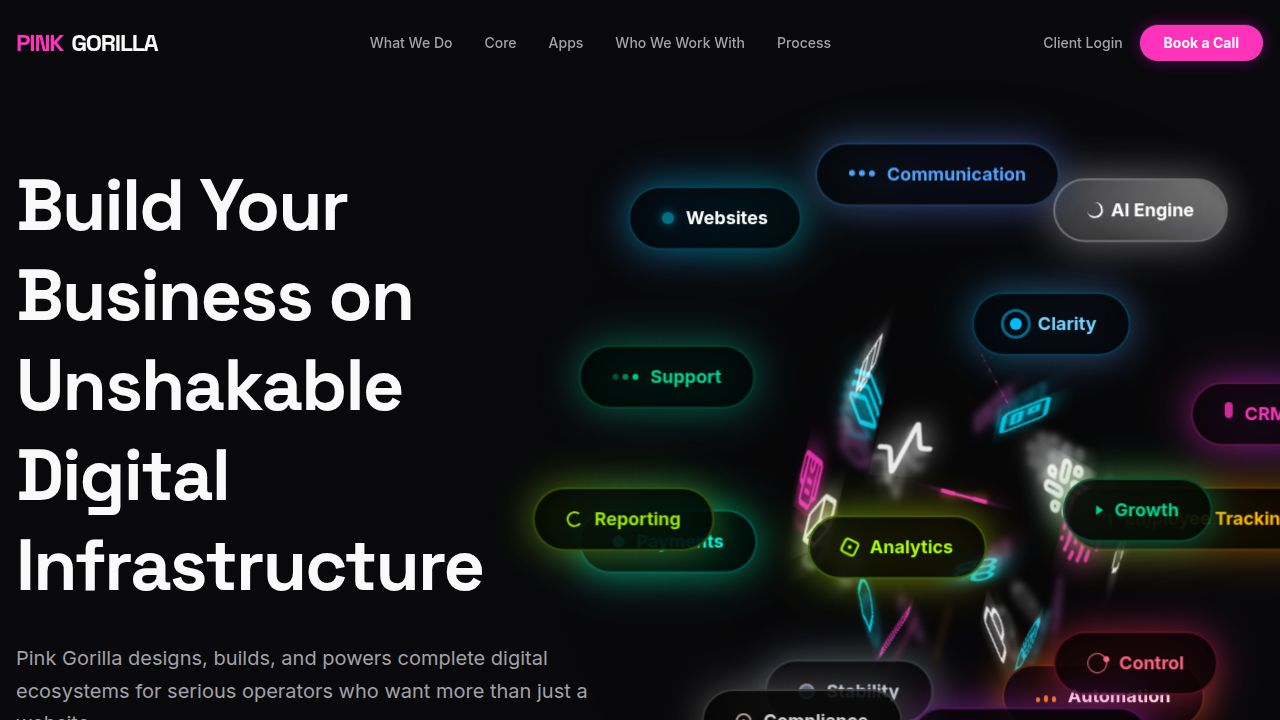
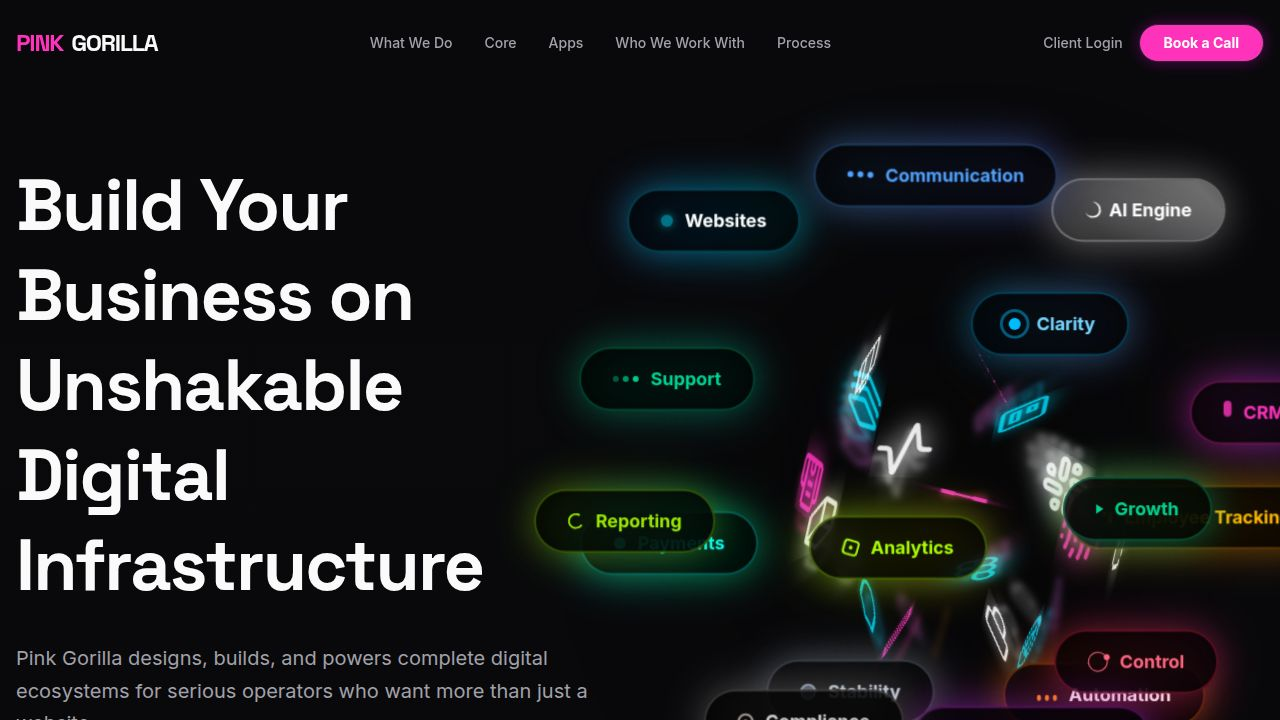
Add animated data packets traveling between nodes in the command center section
Update the "What We Do" section to include animated "data packets" (pong ball effect) moving along static dashed lines, representing real-time data processing between the central hub and each node.

Replit-Commit-Author: Agent
Replit-Commit-Session-Id: 2dcbb8b3-8a15-4513-adb8-198690c26311
Replit-Commit-Checkpoint-Type: full_checkpoint
Replit-Commit-Event-Id: 797ca26f-2d6b-456d-b222-11512c69a4f9
Replit-Commit-Screenshot-Url: https://storage.googleapis.com/screenshot-production-us-central1/b5ce1e09-db47-454d-ac97-12c35562799c/2dcbb8b3-8a15-4513-adb8-198690c26311/Jaf6oV6
Replit-Helium-Checkpoint-Created: true

diff --git a/client/src/components/sections/WhatWeDo.tsx b/client/src/components/sections/WhatWeDo.tsx
@@ -71,19 +71,33 @@ export function WhatWeDo() {
                     <div key={node} className="absolute inset-0 flex items-center justify-center pointer-events-none">
                       {/* Connection Line */}
                       <svg className="absolute inset-0 w-full h-full z-0 overflow-visible" style={{ pointerEvents: 'none' }}>
-                         <motion.line
+                         {/* Static Dashed Line */}
+                         <line
                            x1="50%"
                            y1="50%"
                            x2={`calc(50% + ${x}px)`}
                            y2={`calc(50% + ${y}px)`}
                            stroke="var(--primary)"
-                           strokeWidth="2"
-                           strokeOpacity="0.3"
-                           initial={{ pathLength: 0 }}
-                           whileInView={{ pathLength: 1 }}
-                           viewport={{ once: true }}
-                           transition={{ duration: 1.5, delay: i * 0.1 }}
+                           strokeWidth="1"
+                           strokeOpacity="0.2"
                            strokeDasharray="4 4"
+                         />
+                         
+                         {/* Animated Pong Ball */}
+                         <motion.circle
+                           r="3"
+                           fill="white"
+                           style={{ filter: "drop-shadow(0 0 5px white)" }}
+                           animate={{
+                             cx: ["50%", `calc(50% + ${x}px)`, "50%"],
+                             cy: ["50%", `calc(50% + ${y}px)`, "50%"]
+                           }}
+                           transition={{
+                             duration: 2 + Math.random() * 2,
+                             repeat: Infinity,
+                             ease: "linear",
+                             delay: Math.random() * 2
+                           }}
                          />
                       </svg>
 
